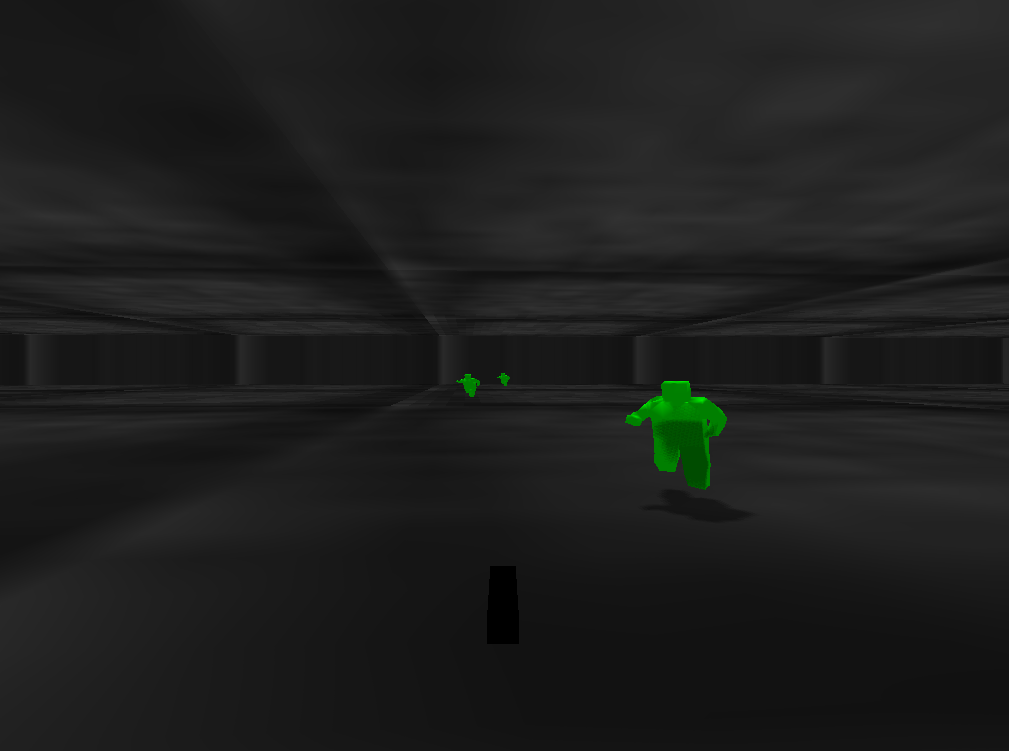
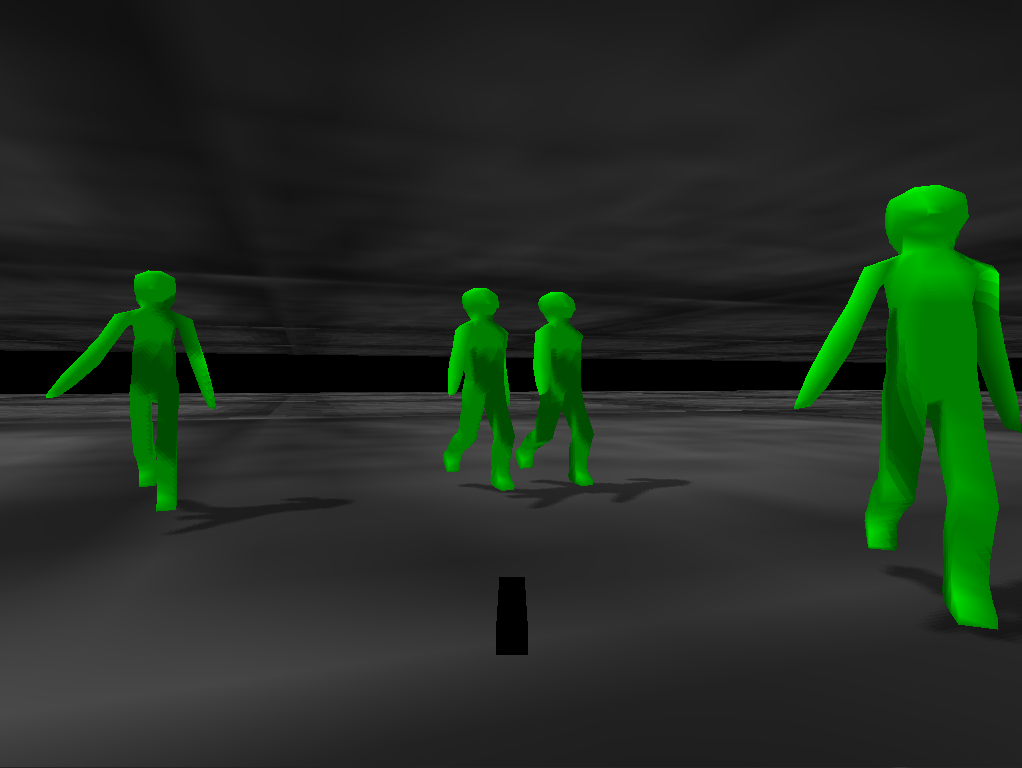
Improved anthropoids a bit..

Changed region(s): [[0.0, 0.245, 1.0, 1.0], [0.6759, 0.3675, 0.7374, 0.3981], [0.2151, 0.3675, 0.2765, 0.3981]]

diff --git a/src/Game.cpp b/src/Game.cpp
@@ -17,7 +17,7 @@
 #define ENEMY_SPEED 0.05f
 #define TOUCH_DISTANCE 1.7f
 #define SHOOT_DURATION 12
-#define ENEMY_Y_POS -0.4f
+#define ENEMY_Y_POS -1.0f
 #define ENEMY_Y_DEAD_POS -0.9f
 
 using namespace small3d;
@@ -27,7 +27,7 @@ Game::Game() {
   manRunning = new SceneObject("manRunning", "resources/anthropoid.glb");
 
   manRunning->setFrameDelay(8);
-  manRunning->getModel().scale = glm::vec3(0.5f);
+  //manRunning->getModel().scale = glm::vec3(0.6f);
 
   manRunning->position = glm::vec3(1.0f, ENEMY_Y_POS, -3.0f);
   manRunning->startAnimating();
